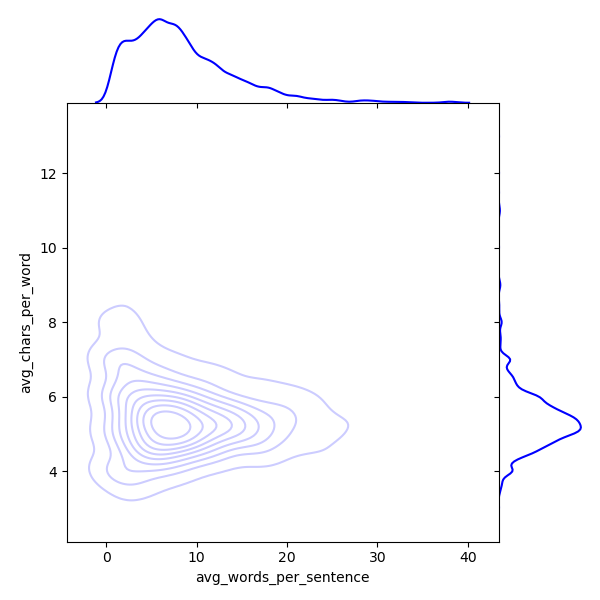
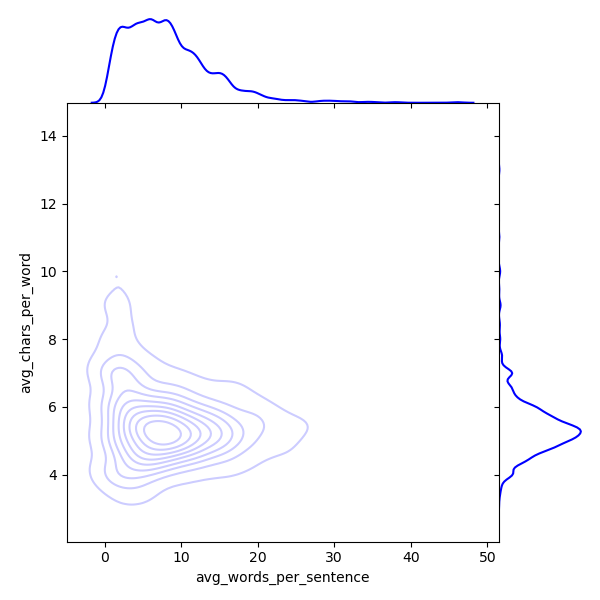
low default efficacy of stylometry kde classifier

diff --git a/code/stylometry_3d_kde.py b/code/stylometry_3d_kde.py
@@ -1,76 +1,72 @@
 import pandas as pd
 import seaborn as sns
 import matplotlib.pyplot as plt
-#nltk.download('punkt')
-dialogue = pd.read_csv('../data/dialogue.csv')
-dialogue = dialogue.dropna(subset=['dialogue'])
+import warnings
 
-import seaborn as sns
-import matplotlib.pyplot as plt
+with warnings.catch_warnings():
+    warnings.filterwarnings("ignore", category=FutureWarning)
+    dialogue = pd.read_csv('../data/dialogue.csv')
+    dialogue = dialogue.dropna(subset=['dialogue'])
 
-#create a jointgrid
+    plt.cla()
+    plt.figure(figsize=(8, 8))
+    ax = plt.gca()
+    ax.set_xlim(0, 30)
+    ax.set_ylim(2, 12)
 
-#create subset of dialogue df where media is The Simpsons
-data1 = dialogue[dialogue['media'] == 'Pride and Prejudice']
-data1 = data1.sample(1000)
+    #for each distinct value in the media column of the dialogue df
+    for media in dialogue['media'].unique():
+        print("Adding 2D KDE Distribution for " + media)
+        #create a df with only the rows where the media column is equal to the current media value
+        media_df = dialogue[dialogue['media'] == media]
+        #identify the top 6 speakers in the media_df
+        top_speakers = media_df['speaker'].value_counts().index.tolist()[:6]
+        #filter the media_df to only include the top speakers
+        media_df = media_df[media_df['speaker'].isin(top_speakers)]
+        #plot the distribution
+        sns.kdeplot(data=media_df, x='avg_words_per_sentence', y='avg_chars_per_word', label=media, alpha=0.5, ax=ax, bw_adjust=1)
 
-g = sns.JointGrid(data=data1, x='avg_words_per_sentence', y='avg_chars_per_word', space=0)
-
-#plot the first dataset's KDE
-g = g.plot_joint(sns.kdeplot, data=data1, color="blue", alpha=0.2)
-
-sns.kdeplot(data=data1['avg_words_per_sentence'], ax=g.ax_marg_x, color="blue", bw_adjust=0.5)
-sns.kdeplot(data=data1['avg_chars_per_word'], ax=g.ax_marg_y, vertical=True, color="blue", bw_adjust=0.5)
-
-# Add a legend to distinguish between the datasets
-#plt.legend(labels=['Class 0', 'Class 1'])
-#reduce the coverage of the axes to twenty by twenty
-#g.ax_joint.set_xlim(0, 40)
-#g.ax_joint.set_ylim(0, 12)
-
-#save the plot as a png
-plt.savefig('../images/3d_kde_test_0.png')
-
-#create subset of dialogue df where media is Friends
-data2 = dialogue[dialogue['media'] == 'Friends']
-data2 = data2.sample(1000)
-
-plt.cla()
-g = sns.JointGrid(data=data2, x='avg_words_per_sentence', y='avg_chars_per_word', space=0)
-g = g.plot_joint(sns.kdeplot, data=data2, color="red", alpha=0.2)
-
-# Add the marginal univariate plots for each dataset
-sns.kdeplot(data=data2['avg_words_per_sentence'], ax=g.ax_marg_x, color="red", bw_adjust=0.5)
-sns.kdeplot(data=data2['avg_chars_per_word'], ax=g.ax_marg_y, vertical=True, color="red", bw_adjust=0.5)
-#g.ax_joint.set_xlim(0, 40)
-#g.ax_joint.set_ylim(0, 12)
-plt.savefig('../images/3d_kde_test_1.png')
-
-plt.cla()
-##create subset of dialogue df where media is either The Simpsons or Pride and Prejudice
-#data3 = dialogue[(dialogue['media'] == 'The Simpsons') | (dialogue['media'] == 'Pride and Prejudice')]
-
-#c = sns.JointGrid(data=data3, x='avg_words_per_sentence', y='avg_chars_per_word', space=0, hue='media')
-#c = c.plot_joint(sns.kdeplot, data=data3, alpha=0.2)
-
-#sns.kdeplot(data=data3['avg_words_per_sentence'], ax=c.ax_marg_x, color="blue", bw_adjust=0.5)
-#sns.kdeplot(data=data3['avg_chars_per_word'], ax=c.ax_marg_y, vertical=True, color="blue", bw_adjust=0.5)
-
-#a = sns.JointGrid(data=data3, x='avg_words_per_sentence', y='avg_chars_per_word', space=0)
-#a = a.plot_joint(sns.kdeplot, data=data2, color="red", alpha=0.2)
-#sns.kdeplot(data=data2['avg_words_per_sentence'], ax=a.ax_marg_x, color="red", bw_adjust=0.5)
-#sns.kdeplot(data=data2['avg_chars_per_word'], ax=a.ax_marg_y, vertical=True, color="red", bw_adjust=0.5)
-
-#b = sns.JointGrid(data=data1, x='avg_words_per_sentence', y='avg_chars_per_word', space=0)
-#b = b.plot_joint(sns.kdeplot, data=data1, color="blue", alpha=0.2)
-#sns.kdeplot(data=data1['avg_words_per_sentence'], ax=b.ax_marg_x, color="blue", bw_adjust=0.5)
-#sns.kdeplot(data=data1['avg_chars_per_word'], ax=b.ax_marg_y, vertical=True, color="blue", bw_adjust=0.5)
-plt.figure(figsize=(8, 8))
-ax = plt.gca()
-ax.set_xlim(0, 40)
-ax.set_ylim(0, 15)
-sns.kdeplot(data=data1, x='avg_words_per_sentence', y='avg_chars_per_word', color="blue", alpha=0.5, ax=ax, bw_adjust=1)
-sns.kdeplot(data=data2, x='avg_words_per_sentence', y='avg_chars_per_word', color="red", alpha=0.5, ax=ax, bw_adjust=1)
+    plt.legend(title='Media')
+    plt.tight_layout()
+    plt.legend()
+    plt.savefig('../images/3d_kde_test_final.png')
 
 
-plt.savefig('../images/3d_kde_test_final.png')
+
+    '''
+    #create subset of dialogue df where media is The Simpsons
+    data1 = dialogue[dialogue['media'] == 'Pride and Prejudice']
+    data1 = data1.sample(1000)
+
+    g = sns.JointGrid(data=data1, x='avg_words_per_sentence', y='avg_chars_per_word', space=0)
+
+    #plot the first dataset's KDE
+    g = g.plot_joint(sns.kdeplot, data=data1, color="blue", alpha=0.2)
+
+    sns.kdeplot(data=data1['avg_words_per_sentence'], ax=g.ax_marg_x, color="blue", bw_adjust=0.5)
+    sns.kdeplot(data=data1['avg_chars_per_word'], ax=g.ax_marg_y, vertical=True, color="blue", bw_adjust=0.5)
+
+    # Add a legend to distinguish between the datasets
+    #plt.legend(labels=['Class 0', 'Class 1'])
+    #reduce the coverage of the axes to twenty by twenty
+    #g.ax_joint.set_xlim(0, 40)
+    #g.ax_joint.set_ylim(0, 12)
+
+    #save the plot as a png
+    plt.savefig('../images/3d_kde_test_0.png')
+
+    #create subset of dialogue df where media is Friends
+    data2 = dialogue[dialogue['media'] == 'Friends']
+    data2 = data2.sample(1000)
+
+    plt.cla()
+    g = sns.JointGrid(data=data2, x='avg_words_per_sentence', y='avg_chars_per_word', space=0)
+    g = g.plot_joint(sns.kdeplot, data=data2, color="red", alpha=0.2)
+
+    # Add the marginal univariate plots for each dataset
+    sns.kdeplot(data=data2['avg_words_per_sentence'], ax=g.ax_marg_x, color="red", bw_adjust=0.5)
+    sns.kdeplot(data=data2['avg_chars_per_word'], ax=g.ax_marg_y, vertical=True, color="red", bw_adjust=0.5)
+    #g.ax_joint.set_xlim(0, 40)
+    #g.ax_joint.set_ylim(0, 12)
+    plt.savefig('../images/3d_kde_test_1.png')
+    '''

diff --git a/code/stylometry_classifier.py b/code/stylometry_classifier.py
@@ -1,0 +1,41 @@
+
+import pandas as pd
+import numpy as np
+from sklearn.neighbors import KernelDensity
+from sklearn.model_selection import train_test_split
+from sklearn.metrics import accuracy_score
+
+#seed the random state
+np.random.seed(6740)
+
+df = pd.read_csv('../data/dialogue.csv')
+df = df.dropna()
+df = df.sample(10000)
+
+X = df[['avg_words_per_sentence', 'avg_chars_per_word']].values
+y = df['media'].values
+
+#split the data
+X_train, X_test, y_train, y_test = train_test_split(X, y, test_size=0.2, random_state=6740)
+
+#create kde for each media
+kdes = {}
+for media in np.unique(y_train):
+    print('training classifier for ' + media)
+    kde = KernelDensity(bandwidth=1)
+    kde.fit(X_train[y_train == media])
+    kdes[media] = kde
+
+# Prediction function
+def predict(X):
+    scores = {genre: kde.score_samples(X) for genre, kde in kdes.items()}
+    scores_df = pd.DataFrame(scores)
+    return scores_df.idxmax(axis=1)
+
+print('running prediction function')
+# Predicting genres for the test set
+y_pred = predict(X_test)
+
+# Evaluating accuracy
+accuracy = accuracy_score(y_test, y_pred)
+print(f"Accuracy: {accuracy}")
